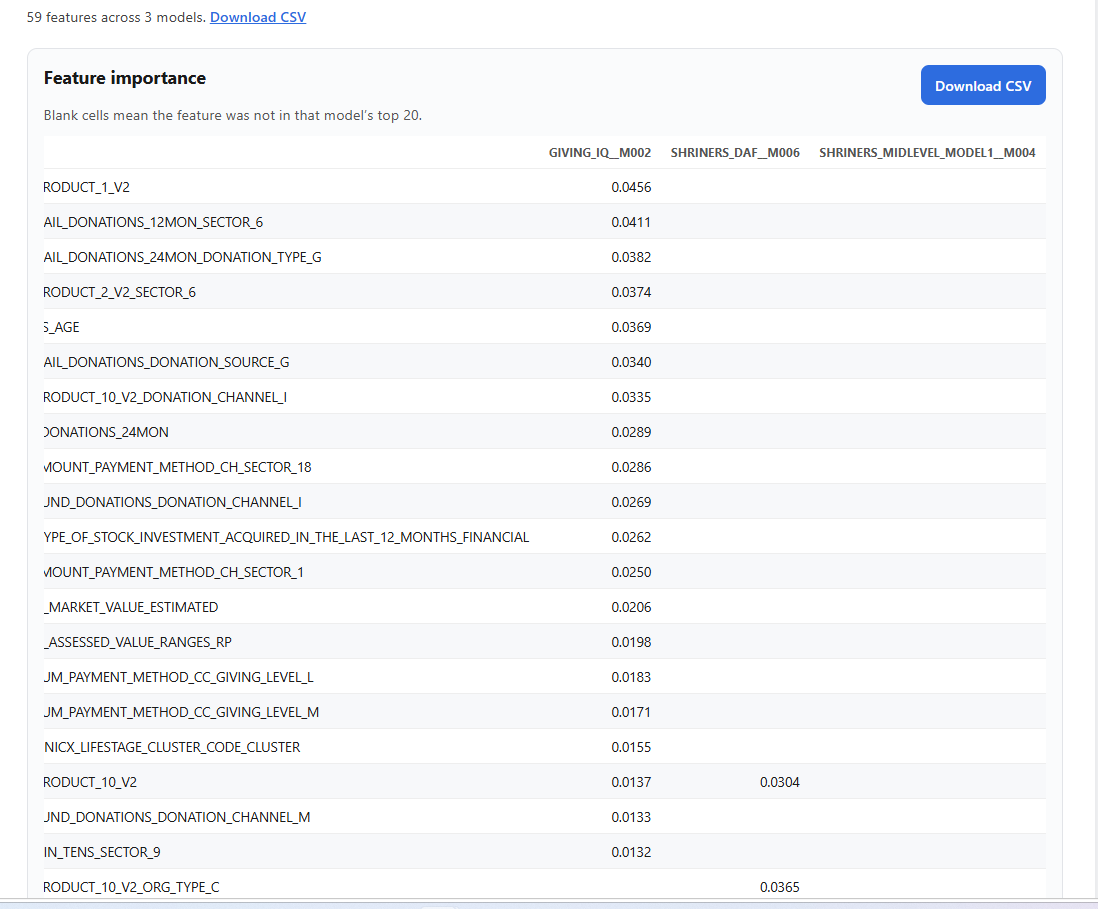
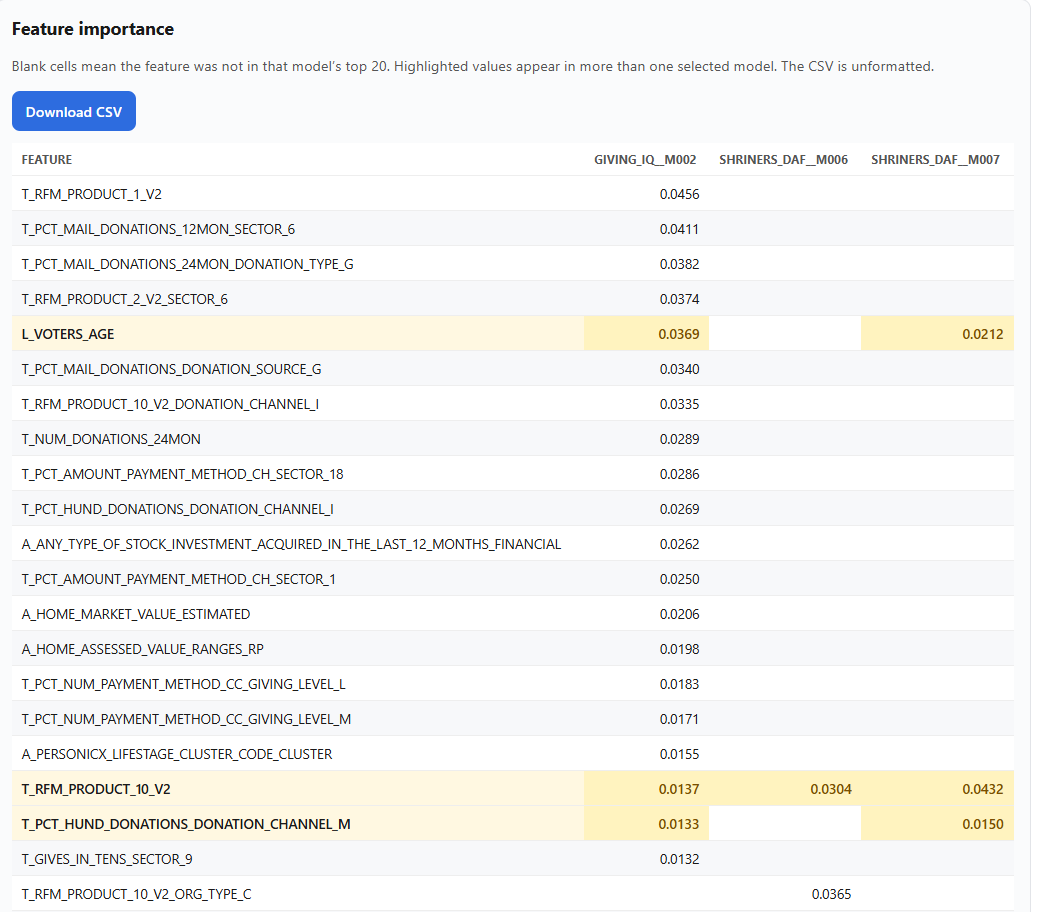
Updating ReadMe, added highlights for overlapping features

diff --git a/static/js/main.js b/static/js/main.js
@@ -496,14 +496,25 @@ function renderFeatureTable(columns, rows, csvUrl) {
     const head = columns.map((col) => `<th>${escapeHtml(col)}</th>`).join("");
     const body = rows
         .map((row) => {
+            const overlapCount = row
+                .slice(1)
+                .filter((value) => value != null && value !== "")
+                .length;
+            const hasOverlap = overlapCount > 1;
             const cells = row
                 .map((value, index) => {
-                    if (index === 0) return `<td>${escapeHtml(value)}</td>`;
-                    const num = value == null || value === "" ? "" : Number(value).toFixed(4);
-                    return `<td class="num">${num}</td>`;
+                    if (index === 0) {
+                        const cls = hasOverlap ? ' class="overlap-feature"' : "";
+                        return `<td${cls}>${escapeHtml(value)}</td>`;
+                    }
+                    const empty = value == null || value === "";
+                    const num = empty ? "" : Number(value).toFixed(4);
+                    const cls = ["num"];
+                    if (hasOverlap && !empty) cls.push("overlap");
+                    return `<td class="${cls.join(" ")}">${num}</td>`;
                 })
                 .join("");
-            return `<tr>${cells}</tr>`;
+            return `<tr${hasOverlap ? ' class="has-overlap"' : ""}>${cells}</tr>`;
         })
         .join("");
     table.innerHTML = `<thead><tr>${head}</tr></thead><tbody>${body}</tbody>`;

diff --git a/templates/index.html b/templates/index.html
@@ -120,8 +120,8 @@
           <div class="results-panel">
             <div class="results-toolbar">
               <div>
-                <h2>Feature importance</h2>
-                <p class="table-caption">Blank cells mean the feature was not in that model’s top 20.</p>
+                <h2>Feature Importance</h2>
+                <p class="table-caption">Blank cells mean the feature was not in that model’s top 20. Highlighted values appear in more than one selected model. The CSV is unformatted.</p>
               </div>
               <a id="features-download-link" class="download-btn" hidden>Download CSV</a>
             </div>

diff --git a/static/css/style.css b/static/css/style.css
@@ -302,7 +302,7 @@ body {
 .sidebar .brand-kicker {
     margin: 0 0 20px;
     font-size: 0.75rem;
-    color: #ffd0d6;
+    color: #fff;
 }
 
 .sidebar nav {
@@ -327,7 +327,7 @@ body {
 .sidebar-foot {
     margin-top: 28px;
     font-size: 0.8rem;
-    color: #ffd0d6;
+    color: #fff;
 }
 
 .page {
@@ -422,4 +422,14 @@ body {
 #features-table td.num {
     text-align: right;
     font-variant-numeric: tabular-nums;
+}
+
+#features-table td.overlap {
+    background: #fff3bf;
+    font-weight: 600;
+    color: #7a4f00;
+}
+#features-table td.overlap-feature {
+    background: #fff8e1;
+    font-weight: 600;
 }
